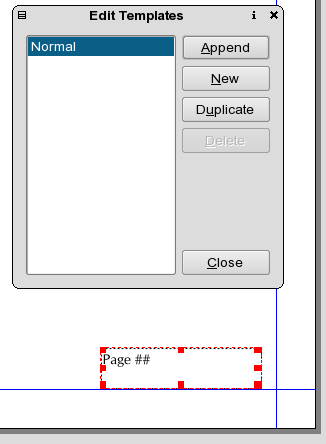
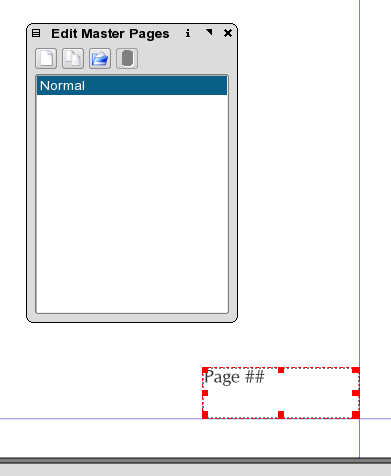
Add new doc for 1.3.x for Page Numbering
git-svn-id: https://scribus.net/svn/Scribus/branches/Version13x@5421 11d20701-8431-0410-a711-e3c959e3b870

diff --git a/Scribus/scribus/doc/en/pagenumber.html b/Scribus/scribus/doc/en/pagenumber.html
@@ -4,15 +4,15 @@
 
 <p>Adding automatically incrementing page numbers is a two step process, but once mastered, quite simple and reliable.</p>
 
-<p>Scribus uses a special place holder within a <a href="pagetemplate1.html">page template</a> to indicate page numbers and allows them to be automatically included in your document without concern for moving, importing or deleting pages. </p>
+<p>Scribus uses a special place holder within <a href="pagetemplate1.html">Master Pages</a> to indicate page numbers and allows them to be automatically included in your document without concern for moving, importing or deleting pages. </p>
 
 <h4>Step One</h4>
 
-<p>With your chosen document open, go <strong>Edit > Templates..</strong> If you have not created any other page templates, then there will be just one named Normal. </p>
+<p>With your chosen document open, go <strong>Edit > Master Pages</strong> If you have not created any other Master Pages, then there will be just one named Normal. </p>
 <h4>Step Two</h4>
-<p>Next, create a text frame where you want the page numbers to go. Then, enter edit mode by double clicking on the text frame and place the pound or hash symbol as it is known.  &#035;  Use one, two or three symbols depending on the number of pages needed. For 1-9 pages use a single &#035;, for 11 - 99 pages use two &#035;  &#035;   Enter Alt+#. (US Keyboard users, are recommended to re-map this key to F7 for example.) Save the template, by closing the Page Templates dialog and return to the main document.</p>
+<p>Next, create a text frame where you want the page numbers to go. Then, enter edit mode by double clicking on the text frame and place the pound &#035; or hash symbol as it is known. This most easily done via <strong>Insert > Carachter > Page Number </strong>  Use one, two or three symbols depending on the number of pages needed. For 1-9 pages use a single &#035;, for 11 - 99 pages use two &#035;  &#035;. Then  save the Master Page, by closing the Master Pages dialog and return to the main document.</p>
 
 <table width="100%"><tr><td align="center"><img src="images/pagenumbering.png" title="Inserting Page Number placeholders." alt="Inserting Page Number placeholders"  /></td></tr></table>
 
-<p>If you have more than one Page Template, you will need to add these placeholders to each template. You can apply styles, default font and fonrs sizes as you wish as well, just like a normal text frame. </p>
+<p>If you have more than one Master Page, you will need to add these placeholders to each Master Page. You can apply styles, default font and fonts sizes as you wish as well, just like a normal text frame. </p>
 </qt>

diff --git a/Scribus/scribus/about.cpp b/Scribus/scribus/about.cpp
@@ -54,7 +54,7 @@ About::About( QWidget* parent ) : QDialog( parent, "About", true, 0 )
 	tabLayout1->addWidget( pixmapLabel1 );
 	buildID = new QLabel( tab, "BB" );
 	buildID->setAlignment(Qt::AlignCenter);
-	QString BUILD_DAY = "01";
+	QString BUILD_DAY = "06";
 	QString BUILD_MONTH = CommonStrings::may;
 	QString BUILD_YEAR = "2006";
 	QString BUILD_TIME = "";
